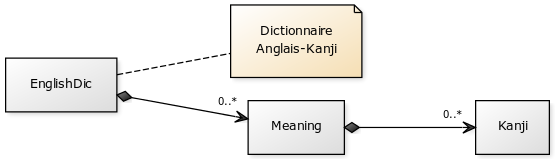
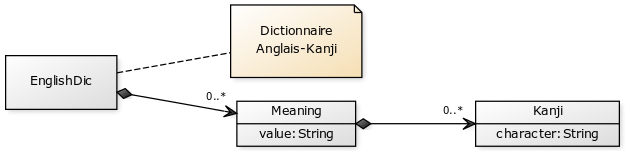
fix(slides): corrige les schémas UML, applique le thème reveal "moon" et corrige le contenu de quelques slides

Changed region(s): [[0.0, 0.0, 1.0, 0.9801]]

diff --git a/slides/reveal.js-3.1.0/index.html b/slides/reveal.js-3.1.0/index.html
@@ -16,10 +16,16 @@
           content="width=device-width, initial-scale=1.0, maximum-scale=1.0, user-scalable=no, minimal-ui">
 
     <link rel="stylesheet" href="css/reveal.css">
-    <link rel="stylesheet" href="css/theme/black.css" id="theme">
+    <link rel="stylesheet" href="css/theme/moon.css" id="theme">
 
     <!-- Code syntax highlighting -->
     <link rel="stylesheet" href="lib/css/zenburn.css">
+
+    <style>
+        .reveal section img {
+            background-color: white;
+        }
+    </style>
 
     <!-- Printing and PDF exports -->
     <script>
@@ -122,6 +128,14 @@ new Thread(new Runnable() {
 
         <section data-markdown>
             <script type="text/template">
+                ## Exemple
+
+                Trier une collection
+            </script>
+        </section>
+
+        <section data-markdown>
+            <script type="text/template">
                 ## Pourquoi utiliser Guava dès maintenant ?
 
                 <ul>
@@ -174,8 +188,6 @@ new Thread(new Runnable() {
                 ## Live coding : Transformers
 
                 Exemple : Transformer des objets en d'autres objets
-
-                <img src="img/transformers.gif"/>
             </script>
         </section>
 
@@ -216,18 +228,18 @@ new Thread(new Runnable() {
                     </tr>
                     <tr>
                         <td>
-                            clé = 文
+                            clé = '文'
                         </td>
                         <td>
-                            clé = sentence
+                            clé = 'sentence'
                         </td>
                     </tr>
                     <tr>
                         <td>
-                            valeurs = [**sentence**, literature, style, art, decoration, figures, plan]
+                            valeurs = ['**sentence**', 'literature', 'style', 'art', 'decoration', 'figures', 'plan']
                         </td>
                         <td>
-                            valeurs = [句, 刑, 処, **文**]
+                            valeurs = ['句', '刑', '処', '**文**']
                         </td>
                     </tr>
                     </tbody>
@@ -298,7 +310,7 @@ new Thread(new Runnable() {
 
                 ~43 interfaces annotées **@FunctionalInterface**
 
-                1 méthode par interface (non «default»)
+                1 seule méthode abstraite par interface (non «default»)
 
                 possibilité de définir ses propres interfaces fonctionnelles
 
